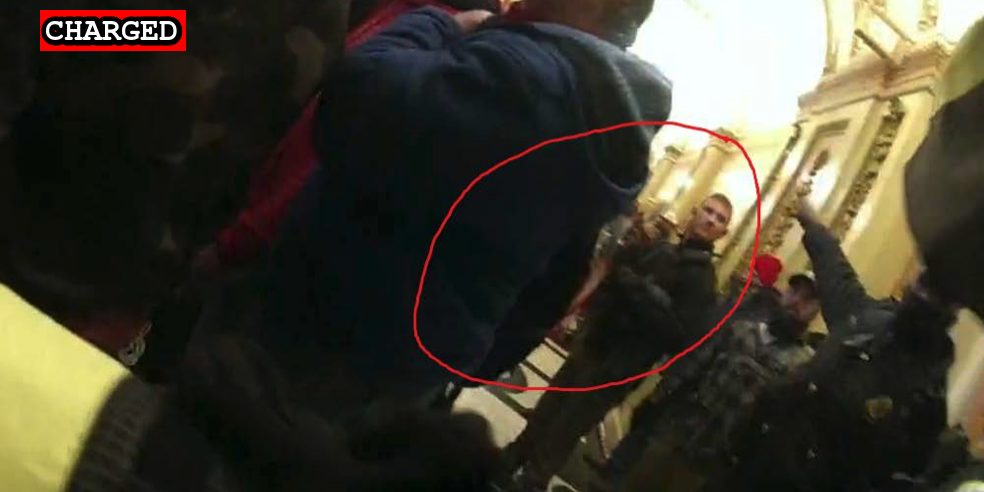
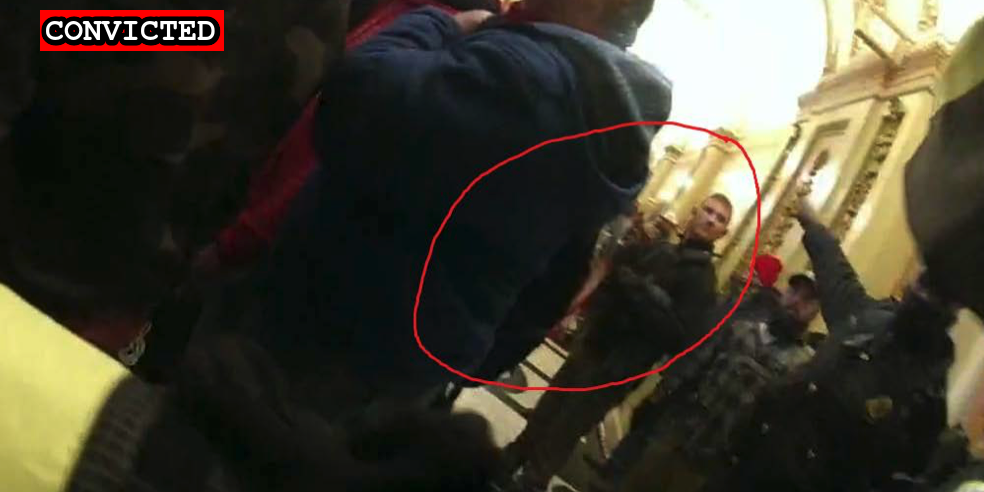
Guilty pleas

Changed region(s): [[0.061, 0.0, 0.2439, 0.122]]

diff --git a/docs/_suspects/derek-jancart.md b/docs/_suspects/derek-jancart.md
@@ -3,11 +3,11 @@ name: Derek Jancart
 lastName: Jancart
 aka:
 residence: Ohio
-status: Charged
+status: Convicted
 date: 2021-02-22
 charged: 2021-02-22
 indicted:
-convicted: 
+convicted: 2021-07-23
 sentenced:
 dismissed: 
 deceased:

diff --git a/docs/_suspects/erik-rau.md b/docs/_suspects/erik-rau.md
@@ -3,11 +3,11 @@ name: Erik Rau
 lastName: Rau
 aka:
 residence: Ohio
-status: Charged
+status: Convicted
 date: 2021-07-13
 charged: 2021-07-13
 indicted:
-convicted:
+convicted: 2021-07-23
 sentenced:
 dismissed:
 deceased:
